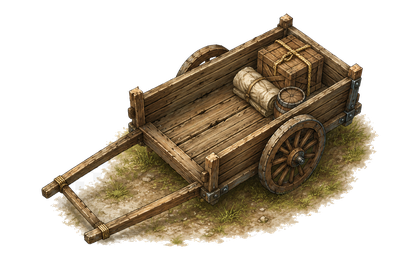
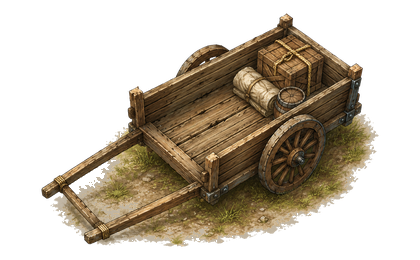
ground structures with contact marks

diff --git a/project-grasslands/game.js b/project-grasslands/game.js
@@ -749,7 +749,7 @@ function preload() {
   this.load.image('campfire_01', 'assets/decorations/campfire_01.png');
   this.load.image('tent_canvas_front_01', 'assets/decorations/tent_canvas_front_01.png');
   this.load.image('tent_canvas_side_01', 'assets/decorations/tent_canvas_side_01.png');
-  this.load.image('wooden_cart_01', 'assets/decorations/wooden_cart_01.png');
+  this.load.image('wooden_cart_01', 'assets/decorations/wooden_cart_01.png?v=199');
   // Decorations
   for (let i = 1; i <= 4; i++) this.load.image(`deco_flower_cluster_0${i}`, `assets/decorations/deco_flower_cluster_0${i}.png`);
   for (let i = 1; i <= 3; i++) this.load.image(`deco_rock_0${i}`, `assets/decorations/deco_rock_0${i}.png`);
@@ -1811,9 +1811,9 @@ function addPathWashes(scene) {
       g.lineBetween(a.x, a.y, cx, cy);
       g.lineBetween(cx, cy, b.x, b.y);
     };
-    stroke(outer, 0x6f5a34, 0.12);
-    stroke(mid, 0x94723f, 0.11);
-    stroke(inner, 0xb1894f, 0.045);
+    stroke(outer, 0x6f5a34, 0.075);
+    stroke(mid, 0x94723f, 0.105);
+    stroke(inner, 0xb1894f, 0.058);
     const pointAt = (t) => {
       if (t < 0.5) {
         const u = t * 2;
@@ -1840,7 +1840,7 @@ function addPathWashes(scene) {
         addPathEdgeFleck(
           x, y,
           dirt ? Phaser.Utils.Array.GetRandom([0x7a5d36, 0xa9824c, 0x5f4c31]) : Phaser.Utils.Array.GetRandom([0x567642, 0x739452]),
-          dirt ? Phaser.Math.FloatBetween(0.20, 0.34) : Phaser.Math.FloatBetween(0.14, 0.24),
+          dirt ? Phaser.Math.FloatBetween(0.24, 0.40) : Phaser.Math.FloatBetween(0.18, 0.30),
           tangent,
           side,
         );
@@ -1856,7 +1856,7 @@ function addPathWashes(scene) {
         const p1 = pointAt(t1);
         const edge = outer * 0.48 + Phaser.Math.Between(-12, 18);
         const side = { x: normal.x * sign, y: normal.y * sign };
-        g.lineStyle(Phaser.Math.Between(1, 3), Phaser.Utils.Array.GetRandom([0x5b4a30, 0x8a683c, 0x587240]), Phaser.Math.FloatBetween(0.16, 0.28));
+        g.lineStyle(Phaser.Math.Between(1, 3), Phaser.Utils.Array.GetRandom([0x5b4a30, 0x8a683c, 0x587240]), Phaser.Math.FloatBetween(0.20, 0.34));
         g.lineBetween(
           p0.x + side.x * edge + Phaser.Math.Between(-5, 5),
           p0.y + side.y * edge + Phaser.Math.Between(-4, 4),
@@ -1869,11 +1869,30 @@ function addPathWashes(scene) {
   const roadNode = (r, c) => {
     const p = pathPoint(r, c);
     const radius = p.wide ? 72 : 58;
-    g.fillStyle(0x80613a, p.wide ? 0.13 : 0.11);
-    g.fillCircle(p.x, p.y, radius);
-    g.fillStyle(0xa17a43, 0.09);
-    g.fillCircle(p.x + (tileNoise(r, c, 1421) - 0.5) * 24,
-      p.y + (tileNoise(r, c, 1422) - 0.5) * 18, radius * 0.54);
+    const blob = (cx, cy, rx, ry, color, alpha, salt) => {
+      g.fillStyle(color, alpha);
+      g.beginPath();
+      for (let i = 0; i < 18; i++) {
+        const a = (i / 18) * Math.PI * 2;
+        const n = 0.76 + tileNoise(r + i, c + salt, 1470 + i) * 0.34;
+        const x = cx + Math.cos(a) * rx * n;
+        const y = cy + Math.sin(a) * ry * n;
+        if (i === 0) g.moveTo(x, y);
+        else g.lineTo(x, y);
+      }
+      g.closePath();
+      g.fillPath();
+    };
+    blob(p.x, p.y, radius, radius * 0.72, 0x80613a, p.wide ? 0.15 : 0.13, 1);
+    blob(
+      p.x + (tileNoise(r, c, 1421) - 0.5) * 24,
+      p.y + (tileNoise(r, c, 1422) - 0.5) * 18,
+      radius * 0.54,
+      radius * 0.38,
+      0xa17a43,
+      0.10,
+      2,
+    );
     for (let i = 0; i < 3; i++) {
       if (tileNoise(r, c, 1430 + i) < 0.46) continue;
       const a = tileNoise(r, c, 1440 + i) * Math.PI * 2;
@@ -1894,7 +1913,7 @@ function addPathWashes(scene) {
       addPathEdgeFleck(
         x, y,
         Phaser.Utils.Array.GetRandom([0x6b5433, 0x8a6a3d, 0x658347]),
-        Phaser.Math.FloatBetween(0.15, 0.28),
+        Phaser.Math.FloatBetween(0.18, 0.34),
         tangent,
         side,
       );
@@ -2484,6 +2503,49 @@ function buildDecorations(scene) {
   // flattened field art. Keep this helper a no-op; player/monster shadows
   // use separate code paths and still ground moving characters.
   const addPropShadow = (_img, _x, _y, _opts = {}) => null;
+  const addStructureContact = (img, x, y, opts = {}) => {
+    if (!opts.contact) return;
+    const cfg = opts.contact === true ? {} : opts.contact;
+    const width = cfg.width ?? Math.max(44, img.displayWidth * 0.82);
+    const height = cfg.height ?? Math.max(14, Math.min(54, img.displayHeight * 0.18));
+    const angle = Phaser.Math.DegToRad(cfg.angle ?? opts.angle ?? img.angle ?? 0);
+    const cx = x + (cfg.xOffset ?? 0);
+    const cy = y + (cfg.yOffset ?? (opts.alignBottom ? -height * 0.18 : height * 0.16));
+    const depth = cfg.depth ?? (opts.alignBottom ? y - 0.65 : (opts.depth ?? -560) - 0.35);
+    const ux = Math.cos(angle);
+    const uy = Math.sin(angle);
+    const vx = -Math.sin(angle);
+    const vy = Math.cos(angle);
+    const g = scene.add.graphics().setDepth(depth);
+    for (let layer = 0; layer < 2; layer++) {
+      const rx = width * (layer === 0 ? 0.52 : 0.38);
+      const ry = height * (layer === 0 ? 0.52 : 0.36);
+      const alpha = (cfg.alpha ?? 0.11) * (layer === 0 ? 1 : 0.72);
+      g.fillStyle(layer === 0 ? 0x2b2117 : 0x6b5331, alpha);
+      g.beginPath();
+      for (let i = 0; i < 14; i++) {
+        const a = (i / 14) * Math.PI * 2;
+        const n = Phaser.Math.FloatBetween(0.78, 1.10);
+        const lx = Math.cos(a) * rx * n;
+        const ly = Math.sin(a) * ry * n;
+        const px = cx + ux * lx + vx * ly;
+        const py = cy + uy * lx + vy * ly;
+        if (i === 0) g.moveTo(px, py);
+        else g.lineTo(px, py);
+      }
+      g.closePath();
+      g.fillPath();
+    }
+    for (let i = 0; i < (cfg.scuffs ?? 9); i++) {
+      const lx = Phaser.Math.FloatBetween(-width * 0.44, width * 0.44);
+      const ly = Phaser.Math.FloatBetween(-height * 0.38, height * 0.38);
+      const len = Phaser.Math.Between(6, 24);
+      const px = cx + ux * lx + vx * ly;
+      const py = cy + uy * lx + vy * ly;
+      g.lineStyle(1, Phaser.Utils.Array.GetRandom([0x1d160f, 0x59472b, 0x758342]), Phaser.Math.FloatBetween(0.07, 0.16));
+      g.lineBetween(px - ux * len * 0.5, py - uy * len * 0.5, px + ux * len * 0.5, py + uy * len * 0.5);
+    }
+  };
   const addBaseOverlapCluster = (x, y, opts = {}, countRange = [1, 3]) => {
     const baseClusterChance = opts.baseCluster ?? 0;
     if (!baseClusterChance || !opts.alignBottom || Math.random() >= baseClusterChance) return;
@@ -2752,6 +2814,7 @@ function buildDecorations(scene) {
     img.setAlpha(opts.alpha ?? 1);
     if (opts.tint) img.setTint(opts.tint);
     if (opts.shadow) addPropShadow(img, x, y, opts);
+    addStructureContact(img, x, y, opts);
     addBaseOverlapCluster(x, y, opts, [1, 3]);
     if (opts.blockRadius) blockCells(x, y, opts.blockRadius);
     if (opts.sway) {
@@ -3180,6 +3243,7 @@ function buildDecorations(scene) {
         allowFlip: false,
         angle: tent.angle,
         baseCluster: 0,
+        contact: { width: tent.key === sideTentKey ? 150 : 104, height: 28, yOffset: -8, alpha: 0.075, angle: tent.angle },
       });
       blockCells(x, y, 2);
     }
@@ -3224,6 +3288,7 @@ function buildDecorations(scene) {
         allowFlip: false,
         angle: f.angle,
         baseCluster: 0,
+        contact: { width: 112, height: 16, yOffset: -6, alpha: 0.08, angle: f.angle, scuffs: 5 },
       });
     }
     const cartKey = scene.textures.exists('wooden_cart_01') ? 'wooden_cart_01' : 'camp_wagon_canvas';
@@ -3241,6 +3306,14 @@ function buildDecorations(scene) {
         allowFlip: false,
         angle: item.angle,
         baseCluster: 0,
+        contact: {
+          width: item.key === cartKey ? 178 : (item.key === 'camp_pot_canvas' ? 44 : 116),
+          height: item.key === cartKey ? 42 : (item.key === 'camp_pot_canvas' ? 18 : 20),
+          yOffset: item.key === cartKey ? -16 : -5,
+          alpha: item.key === cartKey ? 0.085 : 0.07,
+          angle: item.angle,
+          scuffs: item.key === cartKey ? 12 : 5,
+        },
       });
       if (item.block) blockCells(x, y, item.block);
     }
@@ -3276,6 +3349,7 @@ function buildDecorations(scene) {
       allowFlip: false,
       angle: -3,
       alpha: 0.94,
+      contact: { width: 230, height: 58, yOffset: 30, alpha: 0.105, angle: -3, depth: -773, scuffs: 12 },
     });
     const ancientTree = placeLandmarkDeco('tree_oak_01', ruinX + 16, ruinY + 34, 326, {
       alignBottom: true,
@@ -3297,6 +3371,7 @@ function buildDecorations(scene) {
         angle: p.angle,
         tint: 0xd4ccb2,
         baseCluster: 0.18,
+        contact: { width: 48, height: 18, yOffset: -5, alpha: 0.10, angle: p.angle, scuffs: 4 },
       });
       blockCells(x, y, 1);
     }
@@ -3320,6 +3395,7 @@ function buildDecorations(scene) {
       allowFlip: false,
       angle: 4,
       baseCluster: 0.55,
+      contact: { width: 150, height: 42, yOffset: -12, alpha: 0.09, angle: 4, scuffs: 10 },
     });
     blockCells(rockX, rockY, 2);
     for (const p of [

diff --git a/project-grasslands/index.html b/project-grasslands/index.html
@@ -82,6 +82,6 @@
   </div>
   <div id="game"></div>
   <script src="https://cdn.jsdelivr.net/npm/phaser@3.70.0/dist/phaser.min.js"></script>
-  <script src="game.js?v=198"></script>
+  <script src="game.js?v=199"></script>
 </body>
 </html>

diff --git a/HANDOFF.md b/HANDOFF.md
@@ -4,17 +4,45 @@
 
 ## 🤖 PICK-UP FOR CODEX (start here)
 
-**State as of 2026-05-19 — post session 94 wooden cart asset wiring pass.**
+**State as of 2026-05-19 — post session 95 terrain/contact polish pass.**
 
 - **Branch:** `main`.
-- **Latest completed work:** session 94 wires Sonny-generated
-  `wooden_cart_01.png` into the spawn camp, replacing the flat runtime canvas
-  wagon when the real PNG is available.
-- **Cache version live in `project-grasslands/index.html`:** `?v=198`.
-- **Next change must use:** `?v=199`.
+- **Latest completed work:** session 95 responds to the latest review that
+  paths still looked airbrushed and structures still read slightly stickered.
+  It sharpens the dirt path rendering and adds structure-only painted contact
+  marks for camp/ruin anchor props without re-enabling generic decoration
+  shadows.
+- **Cache version live in `project-grasslands/index.html`:** `?v=199`.
+- **Next change must use:** `?v=200`.
 - **Pre-existing dirt to leave alone:** 8 modified `knight_*.png` and 10
   untracked `wizard_*.png` in `assets/sprites/`. Sonny's work — do not
   stage, commit, or revert these.
+
+**Where we left off (session 95):**
+- Goal: act on the new review feedback without violating Sonny's earlier
+  instruction that generic decoration shadows made props look like they were
+  floating.
+- `addPropShadow()` remains a no-op. Do not re-enable it.
+- Added a separate `addStructureContact()` helper in `buildDecorations()` that
+  paints small irregular dark/dirt/grass contact marks under selected
+  architectural props only. This is not applied to normal flowers, bushes,
+  trees, monsters, or general scatter.
+- Applied contact marks to spawn-camp tents, fences, cart, benches, and pot,
+  plus the prompt-inspired ruins base, ruin pillars, and boulder anchor.
+- Cleaned the project copy of `wooden_cart_01.png` again so its baked contact
+  patch reads less pale/white in-game. The original Downloads file remains
+  untouched.
+- `addPathWashes()` now uses lower-alpha broad path underpaint, stronger hard
+  edge chips/stitches, and irregular polygon path nodes instead of smooth
+  circular node fills. The intent is less airbrush and more ragged terrain
+  boundary while keeping the existing organic road network.
+- Cache bumped to `game.js?v=199`.
+- Verification: `node -c project-grasslands/game.js` passed,
+  `git diff --check -- project-grasslands/game.js project-grasslands/index.html HANDOFF.md`
+  passed, and Chrome preview at `http://localhost:8002/?codex=contact-v199b`
+  loaded `game.js?v=199` with no current console warnings/errors. The camp
+  structures and cart show darker contact with the ground, and the path edges
+  are more ragged without restoring generic decoration shadows.
 
 **Where we left off (session 94):**
 - Goal: use Sonny's generated cart asset from Downloads while preserving the